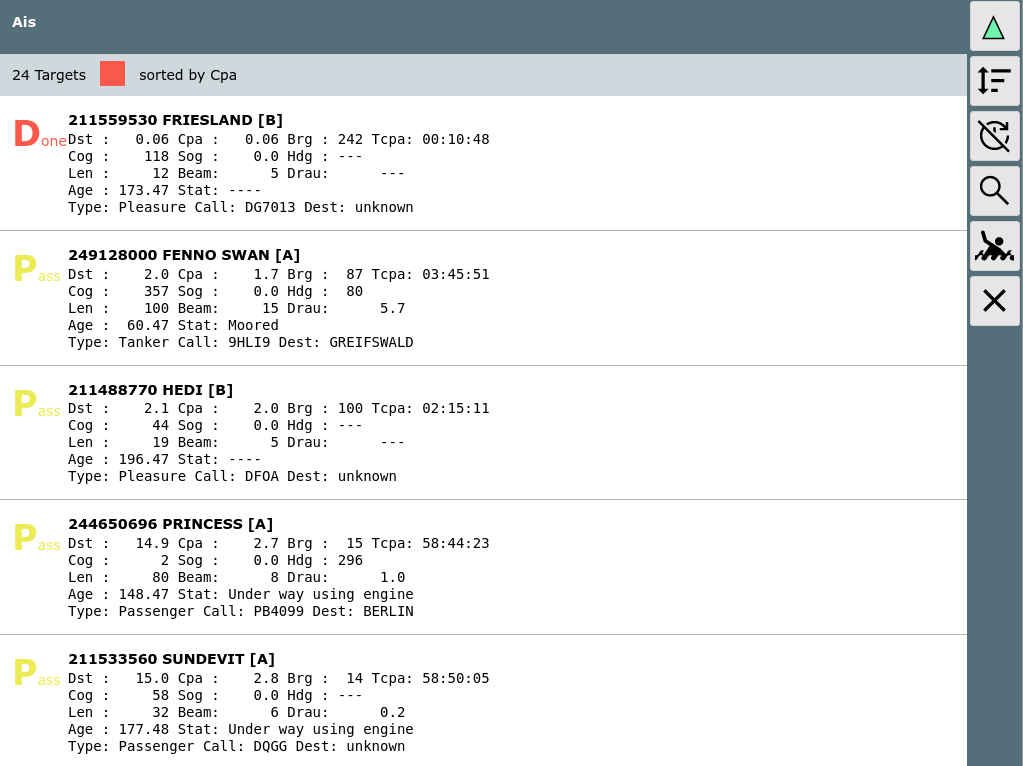
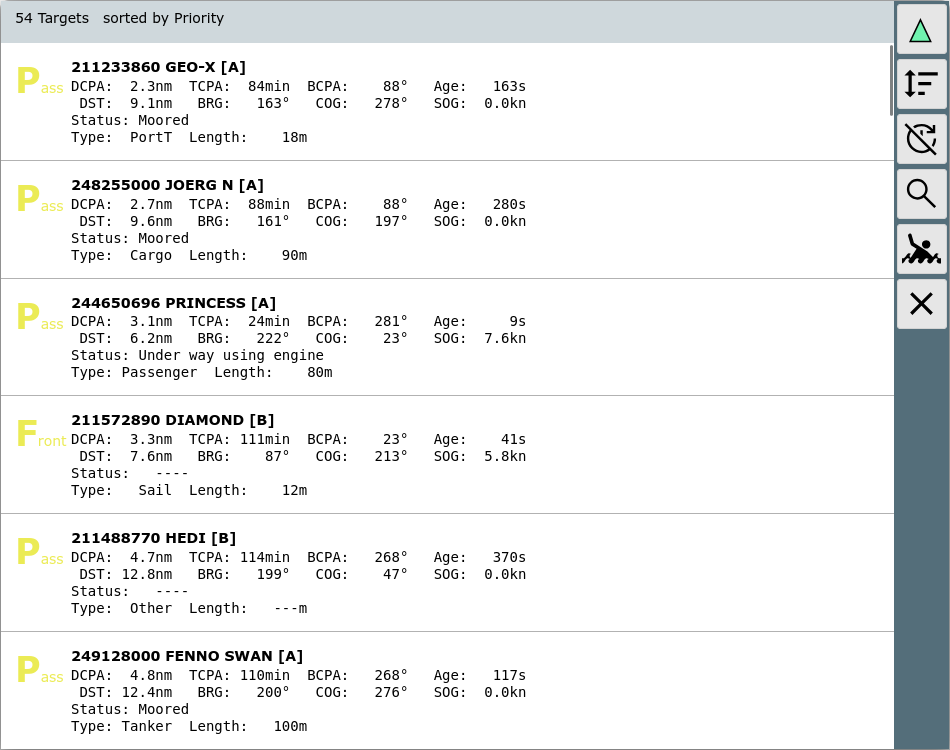
doc: remove aisinfopage and references

diff --git a/docs/userdoc/aispage.html b/docs/userdoc/aispage.html
@@ -7,7 +7,7 @@
   </head>
   <body data-order="1700">
     <h1>Die AIS Liste</h1>
-    <p>Von der <a href="aisinfopage.html">Ais Info</a> gelangt man über den
+    <p>Von der <a href="navpage.html#aisinfo">Ais Info</a> gelangt man über den
       Button&nbsp;<img src="../viewerimages/icons-new/ic_list.svg" alt="" class="inlineimage">
       zu dieser Seite.</p>
     <p><img src="aislist.png" alt="" class="fimage"></p>
@@ -65,14 +65,46 @@
       </tbody>
     </table>
     <p>Auf dieser Seite sieht man alle empfangenen AIS Ziele im Umkreis von ca.
-      10nm zur Bootsposition (sortiert nach CPA). Mit Klick auf eine Zeile
-      springt man zurück zur Karten-Anzeige mit dem gewählten AIS Ziel im
-      Zentrum. Das gewählte Ziel erscheint auch im AIS Info Fenster (dieses
-      färbt sich gelb). Ein Klick auf den grünen Pfeil schaltet wieder in den
-      „Normalmodus“ - d.h. Anzeige des nächsten AIS Zieles.</p>
-    <p>Durch Klick auf die 2. Überschriftszeile oder den Button <img src="../viewerimages/icons-new/sort.svg"
-        alt="" class="inlineimage">kann man die Sortierung verändern.<br>
-      Mit dem Klick auf ein Ziel gelangt man zur <a href="aisinfopage.html">Aisinfoseite</a>
-      für dieses Ziel.</p>
+      10nm zur Bootsposition (sortiert nach Priorität). Mit Klick auf eine Zeile
+      geht man zur <a href="navpage.html#aisinfo">Ais Info</a> für dieses Ziel.
+      Ein Klick auf den grünen Pfeil schaltet wieder in den „Normalmodus“ - d.h.
+      Anzeige des nächsten AIS Zieles.</p>
+    <p>Die folgenden Sortierungen kann man auswählen:</p>
+    <table style="width: 100%" border="1">
+      <tbody>
+        <tr>
+          <td>Sortierung</td>
+          <td>Beschreibung</td>
+        </tr>
+        <tr>
+          <td>Priority</td>
+          <td>Sortiere nach der Bedeutung für die Navigation. Siehe <a href="navpage.html#aispriority">AIS
+              Priorität</a>.</td>
+        </tr>
+        <tr>
+          <td>DCPA</td>
+          <td>Sortiere nach Entfernung am CPA Punkt (Punkt der stärksten
+            Annäherung)</td>
+        </tr>
+        <tr>
+          <td>TCPA</td>
+          <td>Sortiere nach der Zeit bis zum CPA Punkt</td>
+        </tr>
+        <tr>
+          <td>DST</td>
+          <td>Sortiere nach aktueller Entfernung</td>
+        </tr>
+        <tr>
+          <td>Name</td>
+          <td>Sortiere nach Name</td>
+        </tr>
+        <tr>
+          <td>MMSI</td>
+          <td>Sortiere nach MMSI</td>
+        </tr>
+      </tbody>
+    </table>
+    <p>Durch Klick auf die Überschriftszeile oder den Button <img src="../viewerimages/icons-new/sort.svg"
+        alt="" class="inlineimage">kann man die Sortierung verändern.</p>
   </body>
 </html>

diff --git a/docs/userdoc/en_aispage.html b/docs/userdoc/en_aispage.html
@@ -7,7 +7,7 @@
   </head>
   <body data-order="1700">
     <h1>The AIS List</h1>
-    <p>From the <a href="aisinfopage.html">Ais Info</a> you get here by
+    <p>From the <a href="navpage.html#aisinfo">Ais Info</a> you get here by
       clicking the <img src="../viewerimages/icons-new/ic_list.svg" alt="" class="inlineimage">
       button.</p>
     <p><img src="aislist.png" alt="" class="fimage"></p>
@@ -63,11 +63,43 @@
       </tbody>
     </table>
     <p>This page lists all targets within a 10nm range to the current position
-      or to the center of the chart (sorted by CPA). By clicking a row you will
-      return to the chart centered to this target. </p>
-    <p>By clicking either second column heading or the <img src="../viewerimages/icons-new/sort.svg"
+      or to the center of the chart (sorted by Priority). By clicking a row you
+      go to the <a href="navpage.html#aisinfo">Ais Info</a> for this target. </p>
+    <p>By clicking either the heading or the <img src="../viewerimages/icons-new/sort.svg"
         alt="" class="inlineimage">button you can change the sort order.<br>
-      Clicking an item in the list will bring you to the <a href="aisinfopage.html">aisinfo
-        page</a> for this item.</p>
+      The following sort modes are available:</p>
+    <table style="width: 100%" border="1">
+      <tbody>
+        <tr>
+          <td>Sorting</td>
+          <td>Description</td>
+        </tr>
+        <tr>
+          <td>Priority</td>
+          <td>Sort by importance for navigation. Refer to <a href="navpage.html#aispriority">AIS
+              Priority</a>.</td>
+        </tr>
+        <tr>
+          <td>DCPA</td>
+          <td>Distance at the CPA (closest point of approach)</td>
+        </tr>
+        <tr>
+          <td>TCPA</td>
+          <td>Time till reaching the CPA point</td>
+        </tr>
+        <tr>
+          <td>DST</td>
+          <td>Current distance</td>
+        </tr>
+        <tr>
+          <td>Name</td>
+          <td>Sort by name</td>
+        </tr>
+        <tr>
+          <td>MMSI</td>
+          <td>Sort by mmsi</td>
+        </tr>
+      </tbody>
+    </table>
   </body>
 </html>

diff --git a/docs/userdoc/navpage.html b/docs/userdoc/navpage.html
@@ -270,7 +270,7 @@
       Es gibt unterschiedliche Symbole für die AIS Ziele - für Details siehe
       unter "<a href="../hints/usericons.html">Nutzerdefinierte Icons</a>".</p>
     <p>Durch Klick auf ein AIS-Ziel (oder auf die Anzeige des nächsten Zieles in
-      den Anzeige-Bereichen) erhält man alle <a href="aisinfopage.html">Informationen</a>
+      den Anzeige-Bereichen) erhält man alle <a href="#aisinfo">Informationen</a>
       zu diesem Ziel und kann zur <a href="aispage.html">Liste aller AIS-Ziele</a>
       navigieren.</p>
     <h3>AIS Bewegungsvektoren</h3>
@@ -344,9 +344,10 @@
     <p>Basierend auf der berechneten DCPA (minimale Entfernung am CPA Punkt) und
       TCPA (Zeit bis zum CPA Punkt) setzt AvNav eine Warnung für das Ziel wenn
       die Werte unter den konfigurierten Schwellwerten liegen.</p>
+    <h4><a name="aispriority" id="aispriority"></a>Priorität</h4>
     <p>Um zu entscheiden, welches Ziel im AisTargetWidget angezeigt wird und für
-      die Sortierung in der <a href="aisinfopage.html">AIS liste</a> wird für
-      jedes Ziel eine Priorität berechnet.<br>
+      die Sortierung in der <a href="aispage.html">AIS liste</a> wird für jedes
+      Ziel eine Priorität berechnet.<br>
       Die Priorität von hoch zu niedrig:</p>
     <ol>
       <li>Ziele mit Warnung (d.h. CPA &lt; warning CPA und TCPA &lt; warning
@@ -428,8 +429,8 @@
       färbt sich rot, wenn eine CPA von 500m (einstellbar) unterschritten wird.
       Gelb bedeuted, dass nicht das nächste Ziel, sondern ein separat
       ausgewähltes Ziel (siehe unten AIS) angezeigt wird. Ein Klick auf diese
-      Fläche oder ein AIS Ziel auf der Karte führt auf die <a href="aisinfopage.html">AIS
-        Info Seite</a> .</p>
+      Fläche oder ein AIS Ziel in der Feature Liste (nach Klick auf die Karte) <a
+        href="#aisinfo">AIS Info </a> .</p>
     <p>(ab 202011xx) Die verwendeten Symbole für das Boot und die AIS Ziele
       können bei Bedarf über eine Datei <a href="../hints/usericons.html">images.json</a>
       angepasst werden. Ausserdem können die AIS Symbole in den Einstellungen

diff --git a/docs/userdoc/en_navpage.html b/docs/userdoc/en_navpage.html
@@ -330,8 +330,9 @@
     <p>Based on the computed DCPA (minimal distance at the CPA point) and TCPA
       (time to reach this point) AvNav sets a warning flag at the target if the
       values are below the configured threshold.</p>
+    <h4><a name="priority" id="aispriority"></a>Priority</h4>
     <p>To select which target is shown in the AisTargetWidget and for sorting
-      items in the <a href="aisinfopage.html">ais list</a> AvNav computes a
+      items in the <a href="aispage.html">ais list</a> AvNav computes a
       priority for each target.<br>
       The priority (from high to low):</p>
     <ol>
@@ -410,8 +411,8 @@
     </ul>
     <p>The display of the closest AIS target will turn red if expected CPA is
       closer than 500m (can be changed in settings). If the display is yellow it
-      does not show the nearest target but a different one selected on the <a href="aisinfopage.html">ais
-        info page</a>. If you click on this display you move to the ais info
+      does not show the nearest target but a different one selected on the <a href="#aisinfo">ais
+        info</a>. If you click on this display you move to the ais info
       page.</p>
     <p>(since 202011xx) The icons used for your boat and the AIS targets can be
       changed using a file <a href="../hints/usericons.html">images.json</a>.
@@ -757,7 +758,6 @@
     <p>If there is an active measure and you click the measure row in the
       feature list you will get an option to convert the measure into a route.</p>
     <p><img src="navpage-measure-toroute.png" alt=""> </p>
-    
     <h2>Special Functions</h2>
     <h3><a name="waypoint" id="waypoint"></a>Simple Waypoint Navigation</h3>
     <p>Steps:</p>
@@ -788,5 +788,6 @@
     <p>To start a route - change with&nbsp; <img src="../viewerimages/icons-new/route.svg"
         alt="" class="inlineimage">to the <a href="editroutepage.html">route
         editor</a>.</p>
+    
   </body>
 </html>

diff --git a/docs/userdoc/en_dashboardpage.html b/docs/userdoc/en_dashboardpage.html
@@ -89,8 +89,8 @@
         </tr>
       </tbody>
     </table>
-    <p>Clicking on the AIS target (lower right) will take you to the&nbsp;<a href="aisinfopage.html">
-        AIS page</a>, any other click will return to previous page.</p>
+    <p>Clicking on the AIS target (lower right) will take you to the&nbsp; <a href="navpage.html#aisinfo">Ais
+        Info</a>, any other click will return to previous page.</p>
     <h2>Special Functions</h2>
     <h3><a name="anchorwatch" id="anchorwatch"></a>anchor watch</h3>
     <p>By clicking on the <img src="../viewerimages/icons-new/anchor.svg" alt=""
@@ -115,12 +115,14 @@
     <p>When the anchor watch is active some dashboard pages will change their
       content.</p>
     <p><img src="dashboard1-anchor.png" alt="" class="fimage"></p>
-    <p>Ab 20240520: Wenn die Ankerwache aktiv ist, wird das kleine rote
-      Ankersymbol auf allen Seiten angezeigt. <br>
-      Mit einem Klick auf dieses Symbol oder auf den aktiven Anker Button wird
-      ein Dialog zum Bearbeiten der Ankerwache angezeigt.</p>
+    <p> Since 20240520: When the anchor watch is active the small red anchor
+      icon will be shown on all pages.<br>
+      By clicking the small red anchor icon or the active anchor
+      button an edit dialog for the anchor watch will be brought up.</p>
+
     <p><img src="dashboard1-editanchor.png" alt="" class="fimage"></p>
-    <p>Man kann die Ankerwache verändern oder beenden. Mit Cancel wird sie
-      unverändert fortgesetzt.</p>
+    <p>You can modify or end the anchor watch at this dialog. With Cancel you
+      continue the watch.</p>
+
   </body>
 </html>

diff --git a/docs/userdoc/dashboardpage.html b/docs/userdoc/dashboardpage.html
@@ -89,8 +89,8 @@
       </tbody>
     </table>
     <p>Ein Klick auf die Anzeige des nächsten AIS-Zieles (rechts unten) führt
-      zur <a href="aisinfopage.html"> AIS-Seite</a>, ein Klick auf jede andere
-      Stelle oder den Cancel-Button zurück zur Seite von der man kam.</p>
+      zur&nbsp; <a href="navpage.html#aisinfo">Ais Info</a>, ein Klick auf jede
+      andere Stelle oder den Cancel-Button zurück zur Seite von der man kam.</p>
     <h2>Spezielle Funktionen</h2>
     <h3><a name="anchorwatch" id="anchorwatch"></a>Ankerwache</h3>
     <p>Durch Klick auf den <img src="../viewerimages/icons-new/anchor.svg" alt=""
@@ -113,12 +113,11 @@
         unten auf der Navigationsseite</a> aktiviert werden.</p>
     <p>Mit aktiver Ankerwache ändern einige Dashboard Seiten ihren Inhalt. </p>
     <p><img src="dashboard1-anchor.png" alt="" class="fimage"> </p>
-    <p> Since 20240520: When the anchor watch is active the small red anchor
-      icon will be shown on all pages.<br>
-      By clicking the small red anchor icon or the active anchor
-      button an edit dialog for the anchor watch will be brought up.</p>
+    <p> Ab 20240520: Wenn die Ankerwache aktiv ist, wird das kleine rote
+      Anker-Symbol auf allen Seiten angezeigt. Beim Klick darauf wird ein Dialog
+      zum Bearbeiten und Beenden der Ankerwache gezeigt.<br>
+    </p>
     <p><img src="dashboard1-editanchor.png" alt="" class="fimage"></p>
-    <p>You can modify or end the anchor watch at this dialog. With Cancel you
-      continue the watch.</p>
+    <p>Mit "Cancel" wird die Ankerwache unverändert fortgesetzt.</p>
   </body>
 </html>

diff --git a/docs/release.html b/docs/release.html
@@ -550,8 +550,7 @@ sudo systemctl start avnav</div>
       <li> Das momentan "verfolgte" AIS Ziel wird in einer separaten Farbe
         dargestellt.</li>
       <li> Das Verfolgen beginnt durch Klick auf den Center button&nbsp;<img src="viewerimages/icons-new/center.svg"
-          alt="" class="inlineimage"> auf der <a href="userdoc/aisinfopage.html">AIS
-          Seite</a>.</li>
+          alt="" class="inlineimage"> auf der AIS Seite.</li>
       <li> <a href="https://github.com/wellenvogel/avnav/issues/149">#149</a>:
         Die Werte, die bei einem AIS Ziel angezeigt werden, können ausgewählt
         werden (bis zu 3)</li>

diff --git a/docs/en_release.html b/docs/en_release.html
@@ -526,7 +526,7 @@ sudo systemctl start avnav</div>
       <li> use a separate color for tracked AIS target</li>
       <li> do not start tracking an AIS target when we click on it, only after
         "center to"&nbsp; <img src="viewerimages/icons-new/center.svg" alt="" class="inlineimage">
-        on <a href="userdoc/aisinfopage.html">AIS info</a> page</li>
+        on AIS info page</li>
       <li> <a href="https://github.com/wellenvogel/avnav/issues/149">#149</a>:
         allow to customize the data that is shown at an AIS target on the map</li>
       <li> <a href="https://github.com/wellenvogel/avnav/issues/145">#145</a>:

diff --git a/docs/hints/en_keyboard.html b/docs/hints/en_keyboard.html
@@ -287,8 +287,8 @@
           <td>navpage (navigation page)</td>
           <td>widget</td>
           <td>AisTarget</td>
-          <td>"a" (goes to the <a href="../userdoc/aisinfopage.html">Ais Info
-              page</a>)</td>
+          <td>"a" (goes to the <a href="../userdoc/navpage.html#aisinfo">Ais
+              Info</a>)</td>
         </tr>
         <tr>
           <td><br>

diff --git a/docs/hints/keyboard.html b/docs/hints/keyboard.html
@@ -293,8 +293,7 @@
           <td>navpage (Navigationsseite)</td>
           <td>widget</td>
           <td>AisTarget</td>
-          <td>"a" (geht zur <a href="../userdoc/aisinfopage.html">Ais Info
-              Seite</a>)</td>
+          <td>"a" (geht zur <a href="../userdoc/navpage.html#aisinfo">Ais Info</a>)</td>
         </tr>
         <tr>
           <td><br>

diff --git a/docs/userdoc/index.html b/docs/userdoc/index.html
@@ -158,7 +158,7 @@
         <tr>
           <td><br>
           </td>
-          <td><a href="aisinfopage.html">Ais Info<br>
+          <td><a href="navpage.html#aisinfo">Ais Info<br>
             </a></td>
           <td>Klick auf die AIS Anzeige auf der <a href="navpage.html">Navigationsseite</a>
             oder ein AIS Ziel auf der Karte</td>

diff --git a/docs/userdoc/en_index.html b/docs/userdoc/en_index.html
@@ -157,7 +157,7 @@
         <tr>
           <td><br>
           </td>
-          <td><a href="aisinfopage.html">ais info<br>
+          <td><a href="navpage.html#aisinfo">ais info<br>
             </a></td>
           <td>click on the AIS display on the <a href="navpage.html">navigation
               page</a> or an AIS target on the map</td>
